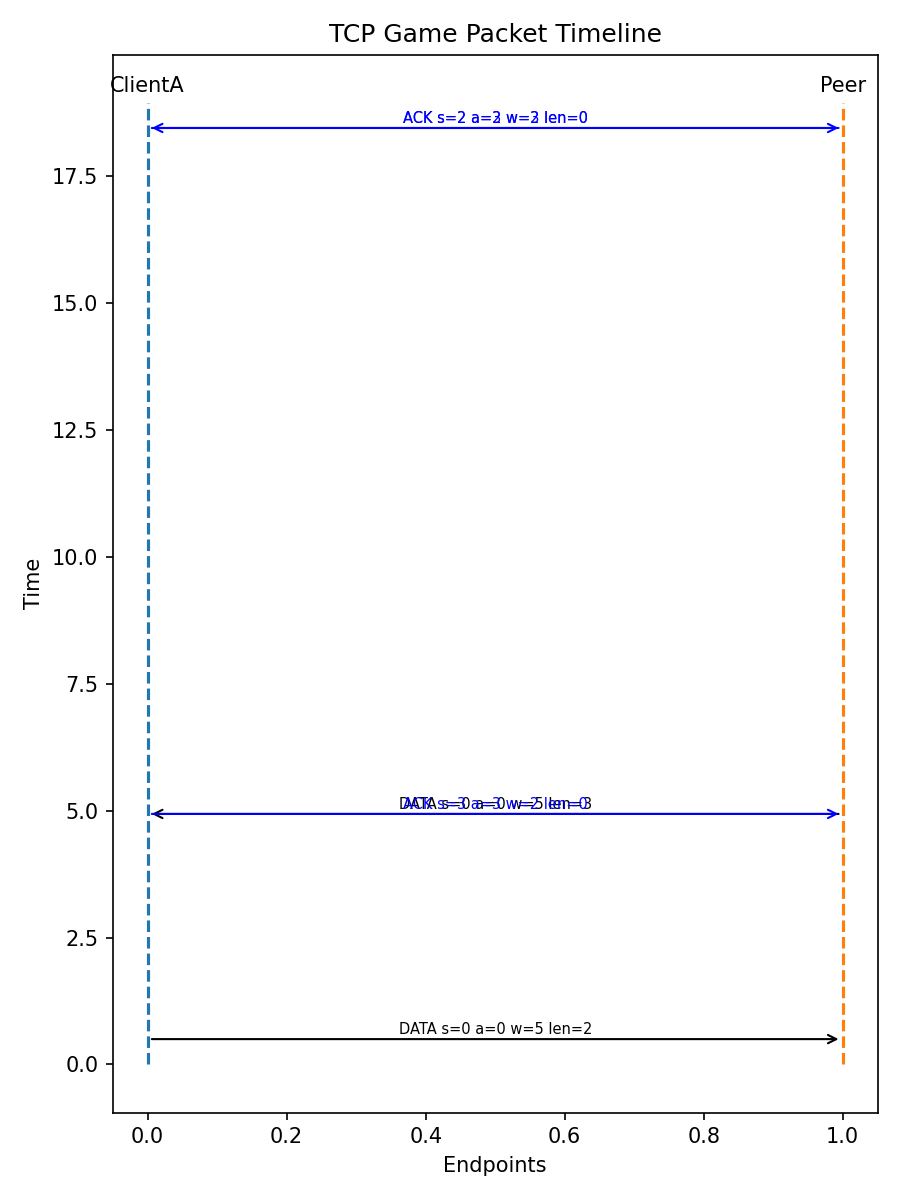
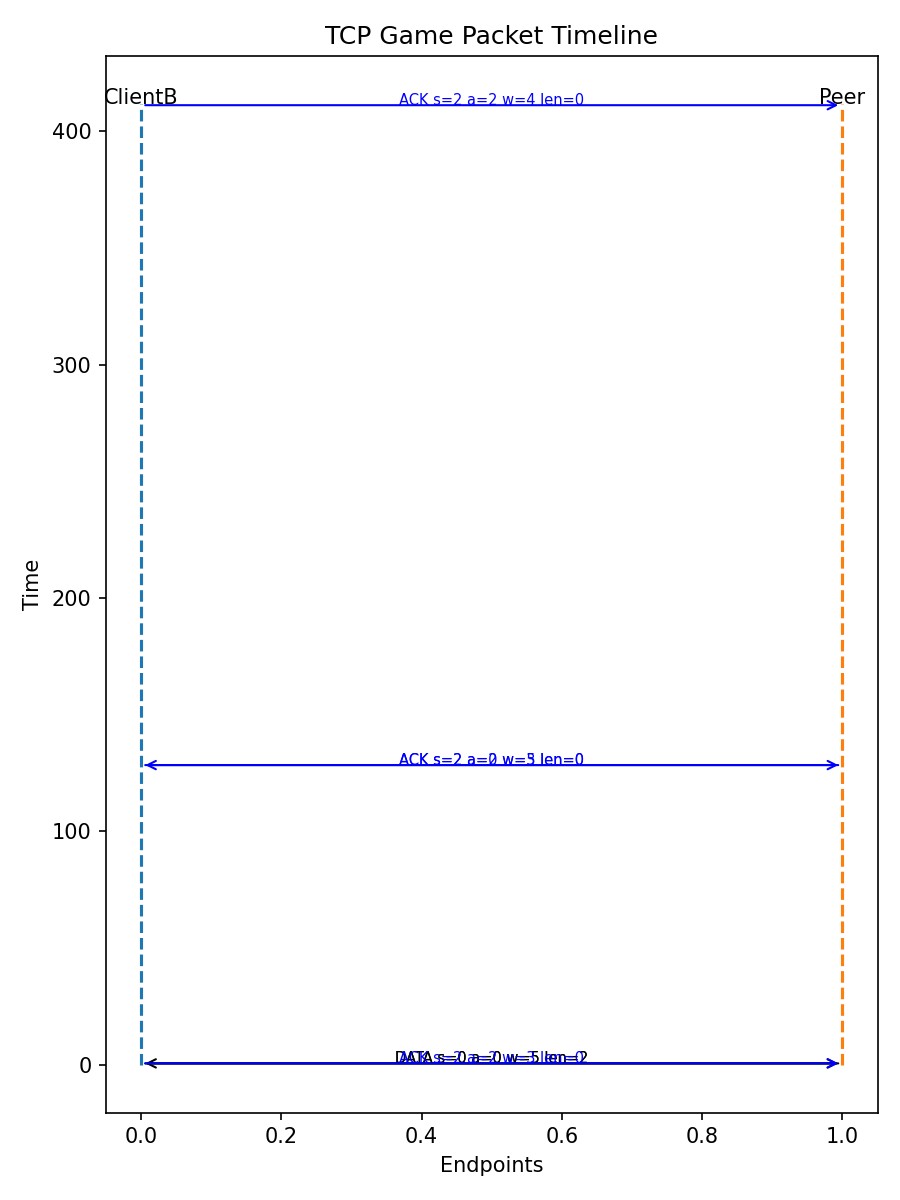
son değişiklikler

diff --git a/core/game_logic.py b/core/game_logic.py
@@ -7,6 +7,8 @@ from utils.logger import get_logger
 from utils.config import (
     GAME_DURATION_SECONDS,
     RESPONSE_TIMEOUT_SECONDS,
+    BUFFER_DRAIN_INTERVAL_SECONDS,
+    WINDOW_STALL_TIMEOUT_SECONDS,
     MAX_RWND,
     TIMELINE_PLOT_FILE,
     MIN_SEGMENT_SIZE,
@@ -369,8 +371,8 @@ class GameLogic:
             while True:
                 now = time.time()
 
-                # Her 30 saniyede bir uygulama tarafı buffer'dan veri işlesin
-                if now - self.last_window_update >= 30:
+                # Her BUFFER_DRAIN_INTERVAL_SECONDS saniyede bir uygulama tarafı buffer'dan veri işlesin
+                if now - self.last_window_update >= BUFFER_DRAIN_INTERVAL_SECONDS:
                     if self.recv_buffer_used > 0:
                         processed = max(1, self.recv_buffer_used // 2)
                         self.recv_buffer_used -= processed
@@ -399,11 +401,11 @@ class GameLogic:
                     )
                     break
 
-                # Receive window 30 saniye boyunca full kaldıysa
+                # Receive window WINDOW_STALL_TIMEOUT_SECONDS boyunca full kaldıysa
                 if self.window_full_since is not None:
-                    if now - self.window_full_since >= 30:
+                    if now - self.window_full_since >= WINDOW_STALL_TIMEOUT_SECONDS:
                         self.logger.warning(
-                            "Receive window 30 saniye boyunca full kaldı → biz suçluyuz, rakibe puan."
+                            f"Receive window {WINDOW_STALL_TIMEOUT_SECONDS} saniye boyunca full kaldı → biz suçluyuz, rakibe puan."
                         )
                         # Burada bizim hatamız → scoreboard.py'de bu olaya göre puanlama yapıldığına emin ol
                         self.scoreboard.opponent_timeout()
@@ -447,14 +449,14 @@ class GameLogic:
                     my_turn_to_send = True
                     time.sleep(0.2)  # 200ms bekle, terminali rahatlatır
 
-                # Eğer biz rwnd=0 durumunda kaldıysak ve 30 saniye hiçbir aktivite yoksa
+                # Eğer biz rwnd=0 durumunda kaldıysak ve WINDOW_STALL_TIMEOUT_SECONDS hiçbir aktivite yoksa
                 if self.zero_window_since is not None:
                     if (
-                        now - self.zero_window_since >= 30
-                        and now - self.last_activity_time >= 30
+                        now - self.zero_window_since >= WINDOW_STALL_TIMEOUT_SECONDS
+                        and now - self.last_activity_time >= WINDOW_STALL_TIMEOUT_SECONDS
                     ):
                         self.logger.warning(
-                            "30 saniye boyunca rwnd=0 kaldık ve hiç paket alışverişi olmadı → biz puan kaybediyoruz."
+                            f"{WINDOW_STALL_TIMEOUT_SECONDS} saniye boyunca rwnd=0 kaldık ve hiç paket alışverişi olmadı → biz puan kaybediyoruz."
                         )
                         # Burada da bizim hatamız; scoreboard.py'de buna göre puan verildiğinden emin ol
                         self.scoreboard.opponent_timeout()

diff --git a/utils/config.py b/utils/config.py
@@ -1,8 +1,13 @@
 HOST = "127.0.0.1"
 PORT = 50000  
 
-GAME_DURATION_SECONDS = 300      
-RESPONSE_TIMEOUT_SECONDS = 5    
+GAME_DURATION_SECONDS = 300
+# Beklenen yanıt süresi (tepki süresi): 45s
+RESPONSE_TIMEOUT_SECONDS = 45
+# Zero-window / window-full gibi durumlarda buffer'ı boşaltma aralığı: 15s
+BUFFER_DRAIN_INTERVAL_SECONDS = 15
+# rwnd=0 veya pencere full kaldığında verilecek maksimum tolerans: 45s
+WINDOW_STALL_TIMEOUT_SECONDS = 45
 
 MAX_RWND = 5
 TIMELINE_PLOT_FILE = "timeline.png"
